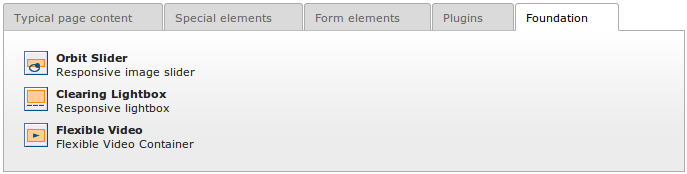
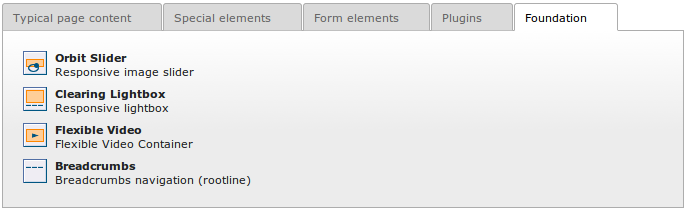
Documentation for breadcrumbs.

Changed region(s): [[0.0307, 0.2299, 0.3679, 0.8908], [0.0, 0.0, 0.9197, 0.2011], [0.0, 0.1437, 1.0, 1.0]]

diff --git a/Documentation/UserManual.rst b/Documentation/UserManual.rst
@@ -104,3 +104,23 @@ since the controls are inside the video frame on Vimeo.
 You will find more information about `Flex Video`_ on the official Foundation documentation.
 
 .. _Flex Video: http://foundation.zurb.com/docs/components/flex_video.html
+
+
+.. _breadcrumbs:
+
+Breadcrumbs navigation
+======================
+
+This is a very simple plugin that add breadcrumbs navigation (rootline) to your page. Since you
+usually want the breadcrumbs to be present on every pages of your website, you should insert
+the breadcrumbs content element in a column that have the slide property set.
+
+Alternatively, you can directly insert the TypoScript object ``lib.cb_foundation.breadcrumbs``
+in your TypoScript template.
+
+If you are using Fluid template, you can include the breadcrumbs in your template like this:
+
+.. code-block:: html
+
+    <f:cObject typoscriptObjectPath="lib.cb_foundation.breadcrumbs" />
+    

diff --git a/Documentation/Introduction.rst b/Documentation/Introduction.rst
@@ -35,6 +35,7 @@ Actually, the following features are supported:
   * :ref:`orbit-slider`
   * :ref:`clearing-lightbox`
   * :ref:`flexvid`
+  * :ref:`breadcrumbs`
 
 More feature will peoabably be added in future releases.
 
